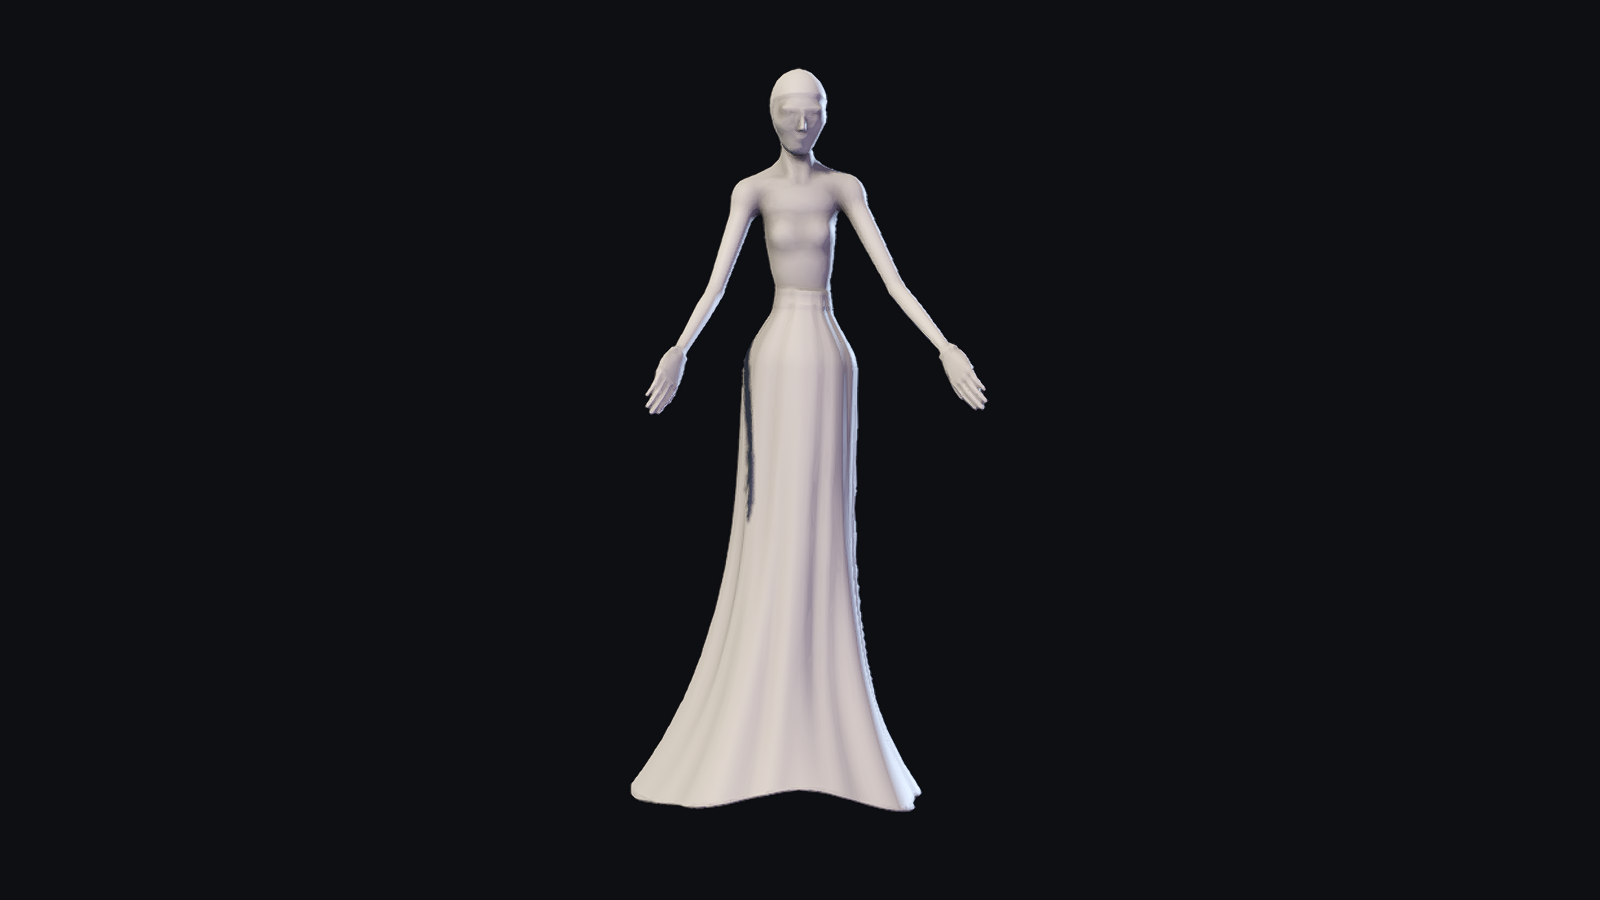
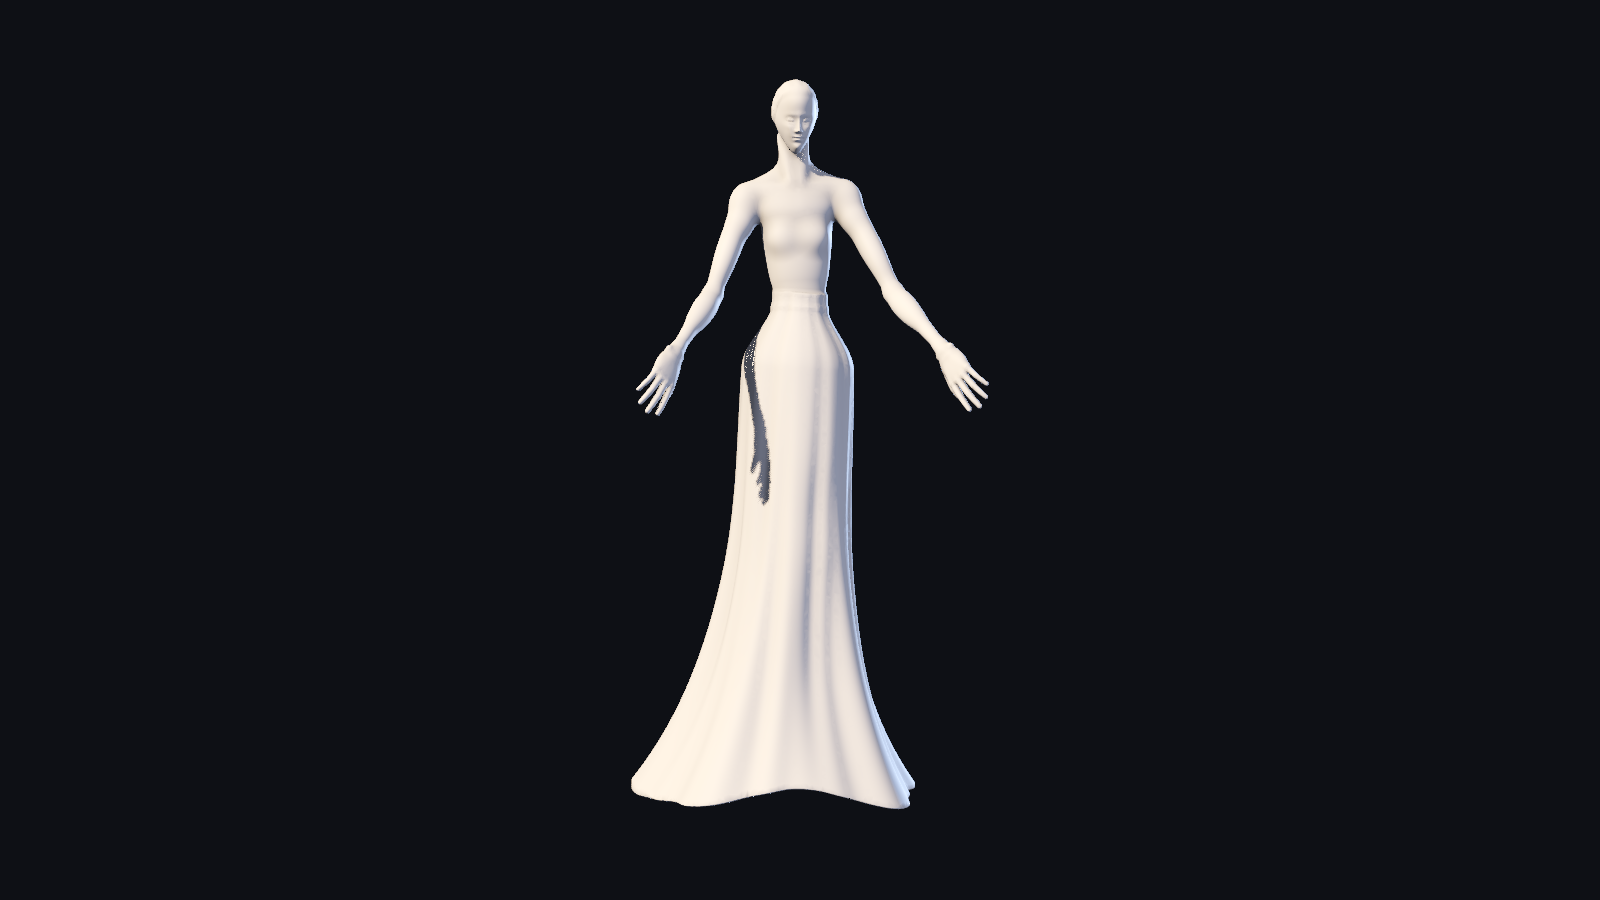
WIP loop 4: versioned sculpt previews + preview renderer, PROCEDURAL.md refinement notes
Claude-Session: https://claude.ai/code/session_01N5E2zK7144yhuMFzkGmmpU

Changed region(s): [[0.375, 0.0622, 0.625, 0.9022]]

diff --git a/tools/sculpt/preview/views.py b/tools/sculpt/preview/views.py
@@ -1,0 +1,61 @@
+"""Camera views of the versioned previews (tools/sculpt/previews): writes views_final_*.json into
+the directory given as first argument. Head views are placed in MIKU's head frame (true front,
+3/4 and profile of the bowed head)."""
+import json
+import os
+import sys
+
+import numpy as np
+
+sys.path.insert(0, os.path.join(os.path.dirname(os.path.abspath(__file__)), ".."))
+import miku  # noqa: E402
+from sdf import v3  # noqa: E402
+
+D = sys.argv[1]
+R = miku.R_CHEST @ miku.R_HEAD
+
+
+def hp(local):
+    return miku._head_point(v3(local)).tolist()
+
+
+def hv(name, deg, dist, y, tgt, fov, light="studio"):
+    a = np.radians(deg)
+    return {"name": name, "pos": hp((dist * np.sin(a), y, dist * np.cos(a))), "target": hp(tgt),
+            "fov": fov, "light": light, "up": (R @ v3(0, 1, 0)).tolist()}
+
+
+mk = [
+    {"name": "miku_front", "pos": [0, -0.8, 11.5], "target": [0, -1.25, 0], "fov": 36},
+    {"name": "miku_q34", "pos": [7.2, 0.2, 8.8], "target": [0, -1.2, 0], "fov": 36},
+    {"name": "miku_side", "pos": [11.5, -0.8, -0.2], "target": [0, -1.25, -0.2], "fov": 36},
+    {"name": "miku_back", "pos": [-3.5, 0.0, -10.8], "target": [0, -1.2, -0.2], "fov": 36},
+    {"name": "miku_low", "pos": [2.0, -4.6, 7.4], "target": [0, -0.6, 0.2], "fov": 40},
+    {"name": "miku_bust_q34", "pos": [2.6, 1.2, 3.4], "target": [0.1, 0.9, 0.2], "fov": 34},
+    hv("miku_head_face", 0, 1.9, 0.05, (0, -0.02, 0.05), 22),
+    hv("miku_head_q34l", 38, 1.9, 0.1, (0, -0.02, 0.05), 22),
+    hv("miku_head_sidel", 90, 1.9, 0.0, (0, 0, -0.02), 24),
+    hv("miku_head_soft", 30, 1.7, 0.05, (0, -0.02, 0.08), 19, "soft_side"),
+    hv("miku_head_hard", 12, 1.7, 0.2, (0, -0.02, 0.08), 19, "hard"),
+    {"name": "miku_hand_left", "pos": [2.0, -0.35, 2.4], "target": [1.15, -0.64, 0.95], "fov": 24},
+]
+json.dump(mk, open(os.path.join(D, "views_final_miku.json"), "w"))
+
+
+def hands(side, sx, sy):
+    p = "hand_" + side
+    return [
+        {"name": p + "_q34", "pos": [5 * sx, 5, 9], "target": [1 * sx, 0, 0], "fov": 40},
+        {"name": p + "_front", "pos": [1 * sx, 0.5, 12.5], "target": [1 * sx, 0, 0], "fov": 42},
+        {"name": p + "_top", "pos": [1 * sx, 12, 1.5], "target": [1 * sx, 0, 0], "fov": 42},
+        {"name": p + "_under", "pos": [1 * sx, -12, 1.5], "target": [1 * sx, 0, 0], "fov": 42},
+        {"name": p + "_low", "pos": [10 * sx, 1.5 * sy, 5], "target": [2 * sx, 0, 0], "fov": 40},
+        {"name": p + "_soft", "pos": [5 * sx, 4 * sy, 7], "target": [2.5 * sx, 0.5 * sy, 0.3], "fov": 30,
+         "light": "soft_side"},
+        {"name": p + "_hard", "pos": [3 * sx, 6 * sy, 8], "target": [1.5 * sx, 0, 0], "fov": 36,
+         "light": "hard"},
+    ]
+
+
+json.dump(hands("left", 1, 1), open(os.path.join(D, "views_final_left.json"), "w"))
+json.dump(hands("right", -1, -1), open(os.path.join(D, "views_final_right.json"), "w"))

diff --git a/docs/PROCEDURAL.md b/docs/PROCEDURAL.md
@@ -170,8 +170,9 @@ versionadas em `assets/meshes/`.
 | `mesher.py` | amostragem em banda estreita **hierárquica** (passos 16→8→4→2→1 da grade fina; só células a < 2 diagonais da superfície são subdivididas), `skimage.measure.marching_cubes` com `mask` (só células ativas), maior componente conexa (sem ilhas), **decimação QEM** vetorizada em lotes (com **importância** por vértice opcional), projeção dos vértices de volta à SDF (Newton), **normais = gradiente da SDF** (4 taps), **AO por vértice**, **`RadialWarp`** (refino local da grade) e escritor OBJ determinístico. |
 | `hand.py` | mão paramétrica: palma, polegar, 4 dedos de 3 falanges, almofadas, nós, tendões, vincos, unha insinuada, antebraço fusiforme. |
 | `giant_hands.py` | poses das mãos gigantes e referencial de exportação. |
-| `miku.py` | a escultura de MIKU e o cálculo das âncoras. |
-| `bake_all.py` / `bake_all.sh` | regenera tudo: `tools/sculpt/bake_all.sh` (≈ 13 min em 4 núcleos; `--only hand_left`, `--quick` para iteração, `--out DIR`). |
+| `miku.py` | a escultura de MIKU (rosto em relevo `face_relief`, calota e coque, braços, mãos, vestido), o cálculo das âncoras e `bake_spec()` (refino local da cabeça + importância da QEM). |
+| `bake_all.py` / `bake_all.sh` | regenera tudo: `tools/sculpt/bake_all.sh` (≈ 14 min, MIKU ≈ 11,5 min; `--only hand_left`, `--quick` para iteração, `--out DIR`). |
+| `preview/` | `render_previews.sh` + `preview.gd` + `views.py`: previews no Godot real (seção Previews). |
 
 Determinismo: BLAS fixado em 1 thread, ordem de iteração fixa, números com casas fixas (`-0.0`
 normalizado), JSON com chaves ordenadas. Verificado: duas execuções completas independentes
@@ -215,46 +216,78 @@ Metadados: `JSON.parse_string(FileAccess.get_file_as_string("res://assets/meshes
 
 ## MIKU — `assets/meshes/miku_body.obj` + `.json`
 
-Estátua sacra estilizada original (abstração tipo Brancusi / mármore art déco), não anime: ~10
-cabeças (cabeça 0,6 u), cabeça oval curvada ~17° para a frente/baixo, levemente inclinada e girada;
-pálpebras fechadas por relevo, nariz reto, sem boca detalhada (só um leve relevo), pescoço longo,
-clavículas e esternocleidomastoides suaves, busto discreto, contrapposto (ombros e quadril
-inclinados em sentidos opostos, tronco girado), braços longos abertos para a frente e para baixo,
-mãos finas com dedos juntos (sulcos) e palmas para fora/baixo. Da cintura: vestido em sino alongado
-(quadril, leve estreitamento, alargamento final), pregas verticais com torção lenta, leve varrida
-para trás, perna relaxada insinuada sob o tecido, **aberto embaixo** (casca de 3–4 cm, domo interno
-em y ≈ −1,7) com barra irregular suave. Sem pés, sem pernas. Cabelo: calota lisa presa ao crânio,
-linha do cabelo em curva (testa → têmpora → em volta da orelha → nuca) e um **coque compacto** atrás;
-nenhuma mecha lateral. As fitas partem de `hair_root`.
+Estátua sacra estilizada original (abstração tipo Brancusi, "Musa adormecida" / mármore art déco),
+não anime: ~11 cabeças (cabeça 0,53 u do queixo ao alto), cabeça curvada ~17° para a frente/baixo,
+levemente inclinada e girada; pescoço longo, clavículas e esternocleidomastoides suaves, busto
+discreto, contrapposto (ombros e quadril inclinados em sentidos opostos, tronco girado), braços
+longos abertos para a frente e para baixo. Da cintura: vestido em sino alongado (quadril, leve
+estreitamento, alargamento final), pregas verticais com torção lenta, leve varrida para trás, perna
+relaxada insinuada sob o tecido, **aberto embaixo** (casca de 3–4 cm, domo interno em y ≈ −1,7)
+com barra irregular suave. Sem pés, sem pernas.
+
+**Rosto (refino do Loop 4)** — um único oval contínuo, sem aresta dura. O rosto é um **relevo**
+(campo de altura z = f(x, y) no referencial da cabeça, com distância normalizada pelo gradiente)
+sobre um oval em ovo com queixo afinado; toda feição é uma elevação ou depressão gaussiana suave:
+testa lisa e cheia; arcada superciliar sutil que flui para a raiz do nariz; nariz fino e reto
+(projeção ≈ 0,04 u, ponta pequena); cavidade orbital rasa com a **pálpebra fechada em amêndoa**
+(borda superior macia, linha dos cílios em arco suave para baixo, pálpebra inferior leve); maçãs e
+bochechas suaves, têmporas levemente recuadas; boca só como relevo de lábios (divisão quase
+imperceptível); queixo pequeno e delicado; a linha da mandíbula sobe do queixo para a orelha (corte
+inclinado atrás), sem papada. Todo limite (clamp) do relevo é suave: uma quina no campo aparece como
+costura nas normais. Perfil: testa 0,22 · glabela 0,224 · raiz 0,22 · ponta do nariz 0,253 ·
+subnasal 0,215 · lábios 0,222/0,21 · queixo 0,21 (z no referencial da cabeça).
+
+**Cabelo** — calota presa ao crânio (espessura 0,9 cm na frente → 2,6 cm atrás), com rampa larga na
+linha do cabelo (sem ressalto/faixa na testa); a linha do cabelo é função do azimute: testa → têmpora
+→ desce na frente da orelha (não modelada) até o meio dela → contorna por trás → nuca, cobrindo a
+orelha e deixando a mandíbula livre (sem capuz). 22 sulcos rasos de penteado (0,15 cm) varrem da
+testa para trás e convergem, escondidos, sob um **coque baixo** (elipsoide largo na região
+occipital + fluxo curto) de onde partem as fitas (`hair_root`); sem chifre, sem mecha lateral.
+
+**Braços** — anatomia estilizada mantendo o alongamento: deltoide cheio, ventres do bíceps e do
+tríceps, cotovelo macio, massa do antebraço logo abaixo do cotovelo afunilando para um **punho fino
+e achatado** (fino na direção da palma). Raios ≈ 0,10 (ombro/deltoide) → 0,068 (cotovelo) → 0,08
+(antebraço) → 0,045 × 0,035 (punho); antes 0,10 → 0,064 → 0,071 → 0,046 em tubo liso.
+
+**Mãos de MIKU** — dedos separados e legíveis à distância: leque pequeno (abertura +0,09 → −0,19
+rad do indicador ao mínimo), flexão crescente para o mínimo, fusão só na base (`fuse_k` 0,05, antes
+0,28, que dava uma "luva"); polegar solto. Gênero 0 verificado.
 
 - Referencial: +Y para cima, **frente +Z**, **origem no centro da cintura**; mão esquerda dela em +X.
-- Bounds: min (−1,445, −4,334, −1,610), max (1,397, 1,802, 1,190) → **6,14 u de altura** (barra
+- Bounds: min (−1,444, −4,334, −1,610), max (1,424, 1,760, 1,191) → **6,09 u de altura** (barra
   irregular: −4,15 ± 0,19).
-- **117 998 triângulos**, 59 001 vértices, grade 0,0072 u; OBJ 8,9 MB. AO mín 0,18, média 0,83.
+- **117 998 triângulos**, 59 001 vértices, grade 0,0072 u (0,004 efetiva na cabeça, `RadialWarp`
+  m = 1,8), marching cubes 2,13 M → QEM com importância (rosto ≈ sem simplificação); OBJ 8,9 MB.
+  AO mín 0,11, média 0,82. Euler 2 (gênero 0), 1 componente, 0 arestas de borda. Bake ≈ 11,5 min.
 
-| âncora (mesh) | valor |
-|---|---|
-| `head_top` | (−0,021, 1,771, 0,278) — topo ao longo do eixo da cabeça curvada |
-| `forehead` | (0,002, 1,516, 0,423) — semente de luz |
-| `hair_root` / `hair_root_tangent` | (−0,078, 1,726, −0,113) / (−0,070, 0,845, −0,531) — sai para cima/trás |
-| `palm_left` / `palm_left_normal` | (1,204, −0,584, 0,892) / (0,678, −0,150, −0,720) |
-| `palm_right` / `palm_right_normal` | (−1,028, −0,611, 0,991) / (−0,721, −0,232, −0,654) |
-| `chest` | (−0,015, 0,610, 0,207) |
-| `gown_hem_center` / `gown_hem_radius` | (−0,180, −4,116, −0,344) / 1,161 |
+| âncora (mesh) | valor | antes do refino |
+|---|---|---|
+| `head_top` | (−0,023, 1,729, 0,263) — topo ao longo do eixo da cabeça curvada | (−0,021, 1,771, 0,278) |
+| `forehead` | (0,001, 1,515, 0,417) — semente de luz | (0,002, 1,516, 0,423) |
+| `hair_root` | (−0,081, 1,584, −0,152) — fim do coque baixo | (−0,078, 1,726, −0,113) |
+| `hair_root_tangent` | (−0,074, 0,703, −0,708) — 45° acima da horizontal, para trás | (−0,070, 0,845, −0,531) |
+| `palm_left` / `palm_left_normal` | (1,204, −0,584, 0,892) / (0,680, −0,150, −0,718) | igual |
+| `palm_right` / `palm_right_normal` | (−1,028, −0,611, 0,991) / (−0,722, −0,232, −0,652) | igual |
+| `chest` | (−0,015, 0,610, 0,207) | igual |
+| `gown_hem_center` / `gown_hem_radius` | (−0,180, −4,116, −0,344) / 1,161 | igual |
 
 ## Mãos gigantes — `assets/meshes/hand_left.obj`, `hand_right.obj` + `.json`
 
 Anatômicas e estilizadas: eminências tenar/hipotenar e oco da palma, arco transversal, nós dos
 dedos, falanges com almofadas palmares e nós dorsais, vincos palmares suaves, unha insinuada (plano
-raso com borda de cutícula), tendões extensores sutis, estiloides do punho, antebraço fusiforme que
-se afina num fim macio (fica na névoa). Pulso → ponta do médio **desdobrado = 7,0 u**; na pose a
-corda é 6,58 (esq.) / 6,52 (dir.) — campo `wrist_to_middle_tip`.
+raso com borda de cutícula macia), tendões extensores suaves (refino: mais finos e mais fundos,
+fillet maior), nós dos dedos (cabeças dos metacarpos) mais salientes no dorso, estiloides do punho,
+antebraço fusiforme que se afina num fim macio (fica na névoa). Pulso → ponta do médio
+**desdobrado = 7,0 u**; na pose a corda é 6,58 (esq.) / 6,49 (dir.) — campo `wrist_to_middle_tip`.
 
 Poses próprias (a direita **não** é espelho da esquerda — o teste compara as pontas):
 - **esquerda** embala por baixo: palma para cima, arco transversal forte, dedos curvos em concha
   rasa (flexão crescente do indicador ao mínimo), polegar aberto e erguido formando a borda.
-- **direita** modela por cima: palma para baixo, punho em leve extensão, indicador quase estendido,
-  médio/anelar/mínimo pairando curvos, polegar oposto por baixo.
+- **direita** — gesto de escultor, modela por cima: palma para baixo; o **indicador lidera**, quase
+  estendido e levemente curvo (flexão 0,12/0,20/0,13 rad); **médio, anelar e mínimo em cascata**
+  (0,30/0,44/0,28 → 0,46/0,62/0,36 → 0,62/0,76/0,42) com leque leve; **polegar em oposição**, vindo
+  para a frente sob o indicador como quem belisca a argila; antebraço mais curto antes do corte
+  (2,4 u, antes 3,6).
 
 Referencial de exportação, **origem = centro da palma** (na superfície palmar):
 
@@ -264,9 +297,16 @@ Referencial de exportação, **origem = centro da palma** (na superfície palmar
 | direita | −X | −Y (−0,017, −1,000, 0,004) | +X (0,954, 0,286, −0,095) | +Z |
 
 Outras âncoras: `wrist_center` (esq. (−2,05, −0,42, 0), dir. (2,05, 0,43, 0)), `forearm_end`,
-`tip_thumb/index/middle/ring/little`. Bounds esq. 9,83 × 3,27 × 3,74; dir. 9,71 × 4,15 × 3,61
-(inclui ~3,6 u de antebraço). **57 998 triângulos** cada (29 001 vértices), grade 0,022 u; OBJ
-4,3 MB cada. Na cena do contrato (esq. ≈ (−3,0, −1,5, 4,6), dir. ≈ (3,2, 3,4, 4,8), planeta
+`tip_thumb/index/middle/ring/little`. Bounds esq. 9,82 × 3,27 × 3,74 (inclui ~3,6 u de antebraço);
+dir. 8,56 × 3,40 × 3,13 (antes 9,71 × 4,15 × 3,61; ~2,4 u de antebraço). **57 998 triângulos**
+cada (29 001 vértices), grade 0,022 u; OBJ 4,3 MB cada; Euler 2.
+
+Âncoras da mão direita que mudaram (antes → depois): `forearm_end` (5,323, 1,514, −0,362) →
+(4,179, 1,170, −0,248); `tip_thumb` (−1,252, −2,348, 1,630) → (−1,804, −1,738, 0,685);
+`tip_index` (−4,356, −0,346, 1,458) → (−4,344, −0,415, 1,381); `tip_middle` (−4,202, −1,399,
+0,386) → (−4,138, −1,483, 0,358); `tip_ring` (−3,727, −1,523, −0,488) → (−3,178, −1,917, −0,429);
+`tip_little` (−2,757, −1,325, −1,157) → (−1,939, −1,692, −0,944). A mão esquerda só mudou no
+relevo (tendões/nós), âncoras iguais a menos de 0,001. Na cena do contrato (esq. ≈ (−3,0, −1,5, 4,6), dir. ≈ (3,2, 3,4, 4,8), planeta
 (0, 1, 4)), com rotação identidade a esquerda aponta os dedos para o planeta com a palma para cima e
 a direita paira sobre ele com a palma para baixo; ajuste fino girando `palm_normal` para o planeta.
 
@@ -318,13 +358,20 @@ UV em [0,1]. Construir uma vez; nunca por frame.
 
 ## Previews (Godot real, Forward+ via xvfb)
 
-`tools/sculpt/previews/`: `miku_{front,q34,side,back,low}.png`, `miku_head_{face,q34l,sidel}.png`,
-`hand_left_{front,q34,top,under,low}.png`, `hand_right_{front,q34,top,under,low}.png` — argila
-neutra × AO do vértice, luz principal quente com sombra, recorte frio forte, fill fraco; cena de
-preview temporária (não versionada). Limites conhecidos, vistos nas previews: de perto o rosto é
-deliberadamente abstrato e sob luz frontal dura pode ler como manequim (a translucidez do material
-deve suavizar); os tendões dorsais das mãos ainda marcam sob luz rasante; mãos de MIKU são
-pequenas e simples (lidas à distância).
+`tools/sculpt/previews/` (26 PNG 1600×900, 4,7 MB): `miku_{front,q34,side,back,low,bust_q34}`,
+`miku_head_{face,q34l,sidel}` (frente, ¾ e perfil **no referencial da cabeça**, luz de estúdio),
+`miku_head_soft` (luz lateral suave, sombra de penumbra larga), `miku_head_hard` (luz dura quase
+frontal, sem fill — expõe qualquer vinco), `miku_hand_left`, `hand_{left,right}_{q34,front,top,
+under,low,soft,hard}` — argila neutra × AO do vértice. Estúdio: key quente com sombra, recorte frio
+forte, fill fraco. Regerar: `tools/sculpt/preview/render_previews.sh [MESH_DIR] [OUT_DIR]` (projeto
+Godot descartável próprio em `tools/sculpt/preview/`, ignorado pelo projeto principal via
+`.gdignore`; câmeras em `views.py`).
+
+Inspeção (refino do Loop 4): a faixa/vinco da testa sumiu; testa lisa, olhos fechados lidos como
+amêndoas serenas, perfil com nariz fino, lábios e queixo delicado, calota com coque baixo sem capuz.
+Limites conhecidos: sob luz dura e close extremo a linha dos cílios mostra leve serrilhado (feição
+de ~2 células da grade fina); a borda da unha do polegar da mão direita marca como um traço sob luz
+dura; a mandíbula em perfil ainda é cheia (estilização).
 
 ## Testes — `tests/unit/test_procedural_genesis.gd`
 
